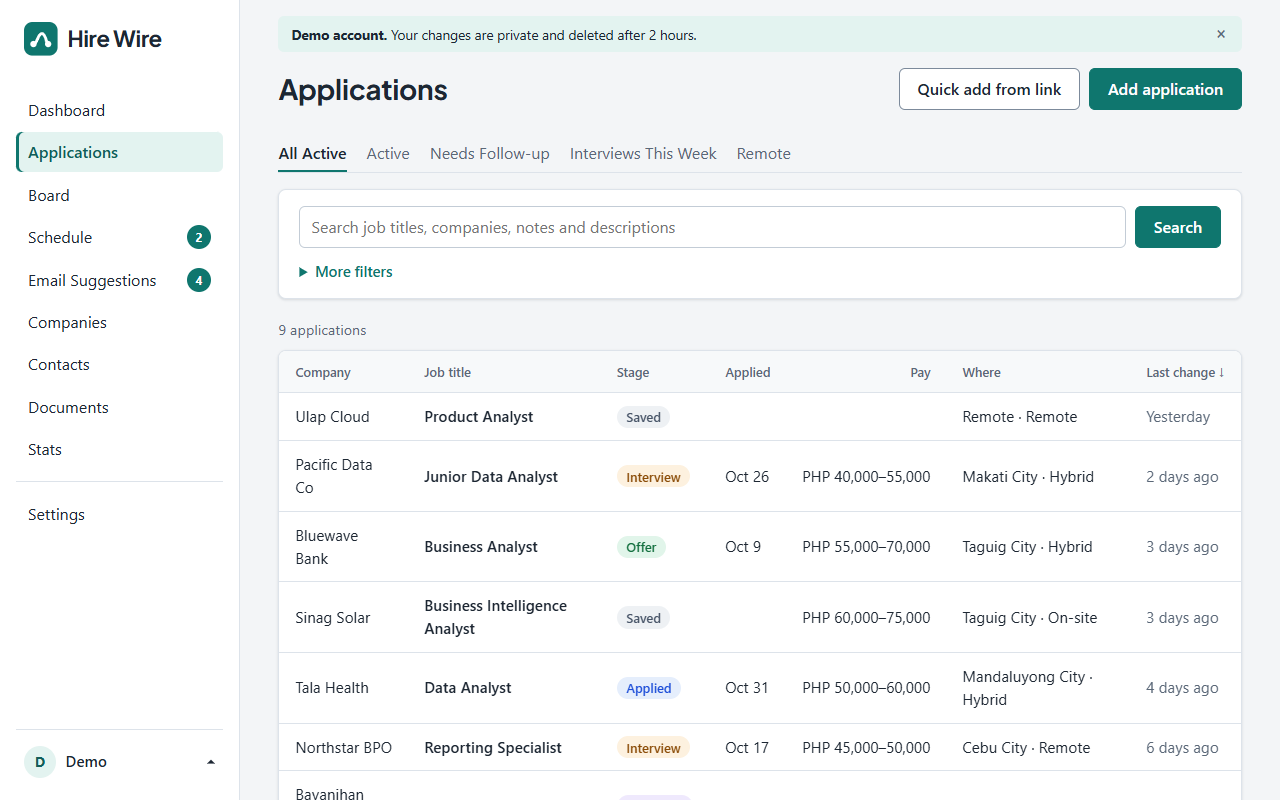
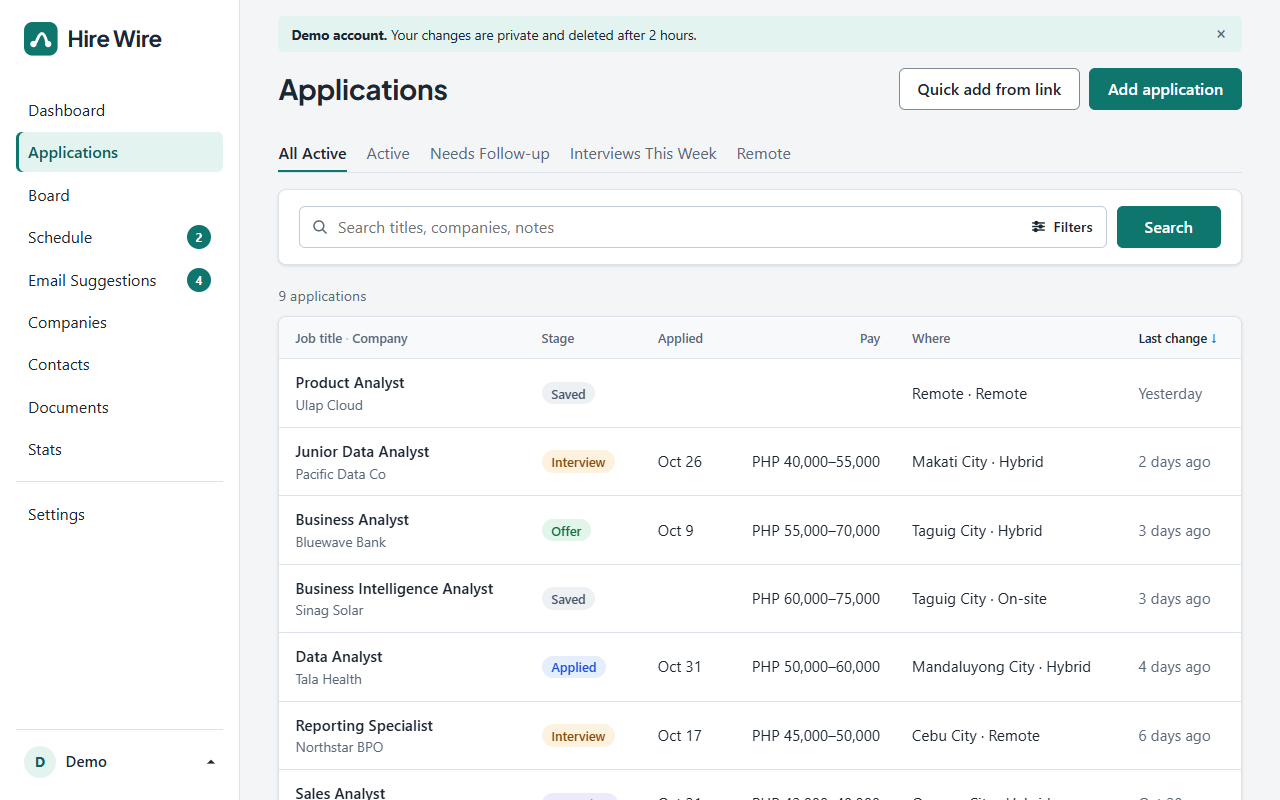
Applications page: sticky job column, clearer rows, compact filters
From a design review the user pasted, measured first:
- Job title and company share the first column (company in small text
  under the title), and it stays on the left when the table scrolls
  sideways. It scrolled at 1024px (796px of table in 721px); at 1280px
  and wider it fits.
- Row hover is a clear tint (--row-hover; it was 1.06:1 against the
  card, now 1.15:1 light and 1.33:1 dark) with a teal edge, and a click
  anywhere on a row opens it (the title is still the real link).
- The search box has a search icon and a Filters button inside it, with
  a count of the filters in use. The panel stays closed until opened
  (the chips show what is on), and remembers being open while ticking
  boxes. The filter card went from 535-574px tall to 76px.
- Empty fields are left out of the address (?stage=interview, not
  ?q=&stage=interview&source=...).
- Stage pills already passed contrast (lowest 5.4:1 light, 5.1:1 dark).
- Phone cards keep the title and stage on the first line.
- All README pictures retaken; the filters picture opens the panel.

diff --git a/hirewire/static/style.css b/hirewire/static/style.css
@@ -10,6 +10,7 @@
   --bg: #f3f5f7;
   --surface: #ffffff;
   --surface-soft: #f7f9fa;
+  --row-hover: #e8f1f0;  /* a table row under the pointer */
   --ink: #1d2733;
   --ink-soft: #5b6878;
   --rule: #dde3ea;
@@ -53,6 +54,7 @@
     --bg: #11161c;
     --surface: #19212a;
     --surface-soft: #1d2631;
+    --row-hover: #273745;
     --ink: #e6ebf0;
     --ink-soft: #9aa8b7;
     --rule: #2b3644;
@@ -88,6 +90,7 @@
   --bg: #11161c;
   --surface: #19212a;
   --surface-soft: #1d2631;
+  --row-hover: #273745;
   --ink: #e6ebf0;
   --ink-soft: #9aa8b7;
   --rule: #2b3644;
@@ -387,14 +390,22 @@ img { max-width: 100%; height: auto; display: block; }
 .table td { padding: .75rem 1rem; border-bottom: 1px solid var(--rule); vertical-align: middle; }
 .table tbody tr:last-child td { border-bottom: 0; }
 .table tbody tr { position: relative; }
-.table tbody tr:hover { background: var(--surface-soft); }
+.table tbody tr:hover td { background: var(--row-hover); }
+.table tbody tr[data-href] { cursor: pointer; }  /* app.js opens the row's page on a click anywhere */
+.table tbody tr[data-href]:hover .col-job { box-shadow: inset 3px 0 0 var(--accent), 1px 0 0 var(--rule); }
 .table th a { color: inherit; text-decoration: none; }
 .table th a:hover { color: var(--accent); }
+.table th a[aria-current] { color: var(--ink); }
+.th-sep { color: var(--rule-strong); }
+/* The job column stays on the left when a narrow screen scrolls the table sideways. */
+.table .col-job { position: sticky; left: 0; z-index: 1; min-width: 13rem; background: var(--surface); box-shadow: 1px 0 0 var(--rule); }
+.table thead .col-job { background: var(--surface-soft); z-index: 2; }
+.job-company { display: block; color: var(--ink-soft); font-size: .86rem; }
 .table .num { text-align: right; white-space: nowrap; }
 .row-link { color: var(--ink); font-weight: 600; text-decoration: none; }
 .row-link:hover { color: var(--accent); text-decoration: underline; }
 /* The title's link covers the whole row or card, so anywhere opens it. */
-.table .row-link::after, .company-card .row-link::after { content: ""; position: absolute; inset: 0; }
+.company-card .row-link::after { content: ""; position: absolute; inset: 0; }
 .row-list { list-style: none; margin: 0; padding: 0; }
 .row-list li { display: flex; flex-wrap: wrap; justify-content: space-between; align-items: center; gap: .3rem 1rem; padding: .65rem 0; border-bottom: 1px solid var(--rule); }
 .row-list li:first-child { padding-top: 0; }
@@ -496,11 +507,24 @@ img { max-width: 100%; height: auto; display: block; }
 .view-delete { width: 1.5rem; height: 1.5rem; padding: 0; background: none; border: 0; border-radius: 50%; color: var(--ink-soft); font-size: 1.1rem; line-height: 1; cursor: pointer; }
 .view-delete:hover { background: var(--danger-soft); color: var(--danger); }
 .filter-card { padding: 1rem 1.25rem; }
+/* One row: [search icon | words ......... Filters (2)] [Search]. The Filters button is the
+   panel's <summary>, placed inside the search box so the card stays one line tall. */
+.filter-card { position: relative; --search-button: 6.5rem; }
 .filter-row { display: flex; gap: .6rem; }
-.filter-row .control { flex: 1; min-width: 0; }
-.filter-more { margin-top: .75rem; }
-.filter-more summary { width: max-content; cursor: pointer; color: var(--accent); font-size: .92rem; font-weight: 600; }
-.filter-more[open] summary { margin-bottom: 1rem; }
+.filter-row > .button { flex: none; width: var(--search-button); }
+.search-box { position: relative; flex: 1; min-width: 0; }
+.search-box .control { width: 100%; padding-left: 2.35rem; padding-right: 7.5rem; }
+.search-icon { position: absolute; left: .75rem; top: 50%; transform: translateY(-50%); color: var(--ink-soft); pointer-events: none; }
+.filter-toggle { position: absolute; top: calc(1rem + .3rem); right: calc(1.25rem + var(--search-button) + .6rem + .3rem); height: calc(var(--control-height) - .6rem);
+  display: inline-flex; align-items: center; gap: .4rem; padding: 0 .6rem; border-radius: var(--radius-small); color: var(--ink); font-size: .9rem; font-weight: 600; list-style: none; cursor: pointer; }
+.filter-toggle::-webkit-details-marker { display: none; }
+.filter-toggle:hover, .filter-more[open] .filter-toggle { background: var(--accent-soft); color: var(--accent-strong); }
+.filter-toggle .badge { min-width: 1.3rem; line-height: 1.3rem; font-size: .72rem; }
+.filter-more[open] > .filter-grid { margin-top: 1rem; padding-top: 1rem; border-top: 1px solid var(--rule); }
+@container main (max-width: 36rem) {
+  .filter-toggle-word { display: none; }
+  .search-box .control { padding-right: 4.5rem; }
+}
 .filter-grid { display: grid; grid-template-columns: repeat(auto-fill, minmax(min(100%, 11rem), 1fr)); gap: 1rem 1.25rem; margin-bottom: 1rem; }
 .filter-grid .span-all { grid-column: 1 / -1; }
 .filter-group { margin: 0; padding: 0; border: 0; min-width: 0; display: grid; gap: .5rem; }
@@ -533,6 +557,9 @@ img { max-width: 100%; height: auto; display: block; }
   .table.as-cards td { padding: 0; border: 0; }
   .table.as-cards td:empty { display: none; }
   .table.as-cards .col-company { order: 1; flex: 1 1 0; color: var(--ink-soft); font-size: .85rem; }
+  /* The title takes the first line beside the stage, so the details wrap below instead of squeezing it. */
+  .table.as-cards .col-job { order: 1; flex: 1 1 calc(100% - 7.5rem); position: static; min-width: 0; background: none; box-shadow: none; }
+  .table.as-cards tbody tr[data-href]:hover .col-job { box-shadow: none; }
   .table.as-cards .col-stage { order: 2; }
   .table.as-cards .col-title { order: 3; flex-basis: 100%; }
   .table.as-cards .col-meta { order: 4; color: var(--ink-soft); font-size: .85rem; text-align: left; }

diff --git a/hirewire/templates/applications/list.html b/hirewire/templates/applications/list.html
@@ -29,16 +29,24 @@
 
   <form class="card filter-card" method="get" action="{{ url_for('applications.index') }}" data-filters>
     <div class="filter-row">
-      <label class="visually-hidden" for="filter-q">Search</label>
-      <input id="filter-q" class="control" type="search" name="q" value="{{ f.q }}" maxlength="100"
-             placeholder="Search job titles, companies, notes and descriptions">
+      <div class="search-box">
+        <svg class="search-icon" viewBox="0 0 24 24" width="18" height="18" fill="none" stroke="currentColor" stroke-width="2" stroke-linecap="round" aria-hidden="true"><circle cx="10.5" cy="10.5" r="6.5"></circle><line x1="15.5" y1="15.5" x2="20" y2="20"></line></svg>
+        <label class="visually-hidden" for="filter-q">Search</label>
+        <input id="filter-q" class="control" type="search" name="q" value="{{ f.q }}" maxlength="100"
+               placeholder="Search titles, companies, notes">
+      </div>
       {% if f.sort != 'updated' or f.order != 'desc' %}
         <input type="hidden" name="sort" value="{{ f.sort }}"><input type="hidden" name="order" value="{{ f.order }}">
       {% endif %}
       <button class="button" type="submit">Search</button>
     </div>
-    <details class="filter-more"{% if panel_count %} open{% endif %}>
-      <summary>More filters{% if panel_count %} ({{ panel_count }}){% endif %}</summary>
+    {# Closed until opened: the chips under the card already show which filters are on.
+       Its summary sits inside the search box (style.css); app.js remembers if it was open. #}
+    <details class="filter-more" data-filter-panel>
+      <summary class="filter-toggle">
+        <svg viewBox="0 0 24 24" width="17" height="17" fill="none" stroke="currentColor" stroke-width="2" stroke-linecap="round" aria-hidden="true"><line x1="4" y1="7" x2="20" y2="7"></line><line x1="4" y1="12" x2="20" y2="12"></line><line x1="4" y1="17" x2="20" y2="17"></line><circle cx="9" cy="7" r="2" fill="currentColor"></circle><circle cx="15" cy="12" r="2" fill="currentColor"></circle><circle cx="8" cy="17" r="2" fill="currentColor"></circle></svg>
+        <span class="filter-toggle-word">Filters</span>{% if panel_count %}<span class="badge">{{ panel_count }}<span class="visually-hidden"> in use</span></span>{% endif %}
+      </summary>
       <div class="filter-grid">
         <fieldset class="filter-group span-all">
           <legend>Stage</legend>
@@ -124,21 +132,25 @@
       <div class="table-scroll">
         <table class="table as-cards">
           <thead>
+            {% macro sort_header(column) -%}
+              {%- set current = f.sort == column -%}
+              <a href="{{ url_for('applications.index', **sort_link(f, column)) }}"{% if current %} aria-current="true"{% endif %}>{{ sorts[column] }}{% if current %} <span aria-hidden="true">{{ '↑' if f.order == 'asc' else '↓' }}</span><span class="visually-hidden"> ({{ 'ascending' if f.order == 'asc' else 'descending' }})</span>{% endif %}</a>
+            {%- endmacro %}
             <tr>
-              {% for column, label in sorts.items() %}
-                {% set current = f.sort == column %}
-                <th{% if column == 'pay' %} class="num"{% endif %}{% if current %} aria-sort="{{ 'ascending' if f.order == 'asc' else 'descending' }}"{% endif %}>
-                  <a href="{{ url_for('applications.index', **sort_link(f, column)) }}">{{ label }}{% if current %} <span aria-hidden="true">{{ '↑' if f.order == 'asc' else '↓' }}</span>{% endif %}</a>
-                </th>
-                {% if column == 'pay' %}<th>Where</th>{% endif %}
-              {% endfor %}
+              {# Job title and company share the first column, which stays put when the table scrolls sideways. #}
+              <th class="col-job">{{ sort_header('role') }} <span class="th-sep" aria-hidden="true">·</span> {{ sort_header('company') }}</th>
+              <th>{{ sort_header('stage') }}</th>
+              <th>{{ sort_header('applied') }}</th>
+              <th class="num">{{ sort_header('pay') }}</th>
+              <th>Where</th>
+              <th>{{ sort_header('updated') }}</th>
             </tr>
           </thead>
           <tbody>
             {% for job in jobs %}
-              <tr>
-                <td class="col-company">{{ job.company.name }}</td>
-                <td class="col-title"><a class="row-link" href="{{ url_for('applications.detail', job_id=job.id) }}">{{ job.role_title }}</a></td>
+              {% set address = url_for('applications.detail', job_id=job.id) %}
+              <tr data-href="{{ address }}">
+                <td class="col-job"><a class="row-link" href="{{ address }}">{{ job.role_title }}</a><span class="job-company">{{ job.company.name }}</span></td>
                 <td class="col-stage">{{ stage_pill(job.stage) }}</td>
                 <td class="col-meta">{% if job.applied_on %}<span class="phone-only">Applied </span>{{ job.applied_on|short_day }}{% endif %}</td>
                 <td class="col-meta num">{{ job.salary_min|salary_range(job.salary_max, job.currency) }}</td>

diff --git a/hirewire/static/app.js b/hirewire/static/app.js
@@ -88,6 +88,42 @@ function setUpFilters() {
   form.addEventListener("change", (event) => {
     if (event.target.matches("input[type=checkbox], select")) form.requestSubmit();
   });
+  // Empty fields stay out of the address, so a bookmarked filter is short: ?stage=interview,
+  // not ?q=&stage=interview&source=&location=... (a disabled field isn't sent).
+  form.addEventListener("submit", () => {
+    form.querySelectorAll("input[name], select[name]").forEach((field) => {
+      if (field.type !== "checkbox" && field.value === "") field.disabled = true;
+    });
+  });
+}
+
+// A click anywhere on a row opens its page (the title is the real link, for keyboards).
+function setUpRowLinks() {
+  document.querySelectorAll("tr[data-href]").forEach((row) => {
+    row.addEventListener("click", (event) => {
+      if (event.target.closest("a, button, input, select, label")) return;
+      if (String(getSelection())) return;  // selecting text to copy isn't a click to open
+      location.href = row.dataset.href;
+    });
+  });
+}
+
+// The filter panel stays open while you tick boxes (each tick reloads the page).
+function setUpFilterPanel() {
+  const panel = document.querySelector("[data-filter-panel]");
+  if (!panel) return;
+  try {
+    if (sessionStorage.getItem("hirewire-filters-open") === "yes") panel.open = true;
+  } catch (error) {
+    // Storage can be blocked. The panel just starts closed.
+  }
+  panel.addEventListener("toggle", () => {
+    try {
+      sessionStorage.setItem("hirewire-filters-open", panel.open ? "yes" : "no");
+    } catch (error) {
+      // Nothing to remember it in.
+    }
+  });
 }
 
 // ---------- The Board ----------
@@ -210,4 +246,6 @@ setUpUserMenu();
 setUpConfirm();
 setUpCopy();
 setUpFilters();
+setUpFilterPanel();
+setUpRowLinks();
 setUpBoard();

diff --git a/tests/test_filters.py b/tests/test_filters.py
@@ -143,6 +143,21 @@ def test_paging(app, me, user_id):
     assert titles(me, "?sort=company&order=asc&page=99") == ["Job 25", "Job 26", "Job 27"]  # the last page
 
 
+def test_rows_open_their_page_and_show_the_company_under_the_title(app, me, jobs):
+    page = me.get("/applications/").get_data(as_text=True)
+    row = re.search(r'<tr data-href="(/applications/\d+)">\s*<td class="col-job"><a class="row-link" href="([^"]+)">'
+                    r'Data Analyst</a><span class="job-company">Acme</span>', page)
+    assert row and row.group(1) == row.group(2)
+
+
+def test_the_filter_panel_stays_closed_and_counts_the_filters(me, jobs):
+    page = me.get("/applications/?stage=applied&mode=hybrid").get_data(as_text=True)
+    assert '<details class="filter-more" data-filter-panel>' in page  # closed: the chips show what's on
+    assert '<span class="badge">2<span class="visually-hidden"> in use</span>' in page
+    # One header holds both the title and the company sort links.
+    assert "sort=role" in page and "sort=company" in page
+
+
 def test_empty_results_say_why(me, jobs):
     page = me.get("/applications/?q=astronaut").data
     assert b"No Matching Applications" in page and b"Clear all" in page

diff --git a/docs/take_screenshots.py b/docs/take_screenshots.py
@@ -74,9 +74,12 @@ def shoot_visitor_pages(browser):
 
 def shoot_page_parts(page):
     """Things that need a click or a scroll first."""
-    # The filters open, with a few chosen.
-    shoot(page, "filters.png", "/applications/?stage=applied&stage=screening&stage=interview&mode=hybrid"
-                               "&mode=onsite&sort=pay&order=desc")
+    # The filters open (the panel starts closed), with a few chosen.
+    page.goto(f"{BASE}/applications/?stage=applied&stage=screening&stage=interview&mode=hybrid&mode=onsite"
+              "&sort=pay&order=desc")
+    page.locator(".filter-toggle").click()
+    save(page, "filters.png")
+    page.locator(".filter-toggle").click()  # closed again, for the pictures after this one
     # The application page, further down: the follow-ups, people and the timeline.
     page.goto(f"{BASE}{job_address(page)}")
     page.locator("#timeline").scroll_into_view_if_needed()

diff --git a/AGENTS.md b/AGENTS.md
@@ -39,6 +39,7 @@ Python 3.13 is at `%LOCALAPPDATA%\Programs\Python\Python313\python.exe`. Use the
 - **Look:** Plus Jakarta Sans (600 and 700, in `static/fonts/`, see its README) for headings, the name and stat numbers (`--headline`); everything else is Segoe UI. The logo (`mark()` in `_macros.html`) is always a solid tile; its wire colour comes from `--mark-wire` (button-text colour in the sidebar, `--panel` on the login panel). The login panel uses `--panel` (deep teal), never `--accent`, so white text stays readable in dark mode. `tests/test_look.py` guards this.
 - Solid buttons hover to `--accent-hover` (clearly darker in light mode, lighter in dark) with a soft `--accent-ring`; the menu's current page also has a teal edge, so it isn't shown by colour alone. The demo's note is one thin line that `setUpDemoNote()` in `app.js` lets people close for the browser session.
 - Outlined (quiet) buttons use `--control-border`, at least 3:1 against the card, so they never look switched off. Links to other sites use `outside_link()` in `_macros.html` (new tab, `noopener`, a small arrow and "opens in a new tab" for screen readers).
+- The Applications table: job title and company share the first column (`.col-job`), which is `position: sticky` so it stays put when a narrow screen scrolls sideways. A sticky cell traps the old whole-row `::after` link, so rows have `data-href` and `setUpRowLinks()` opens them on a click (the title stays the real link). The filter panel is a closed `<details>` whose summary sits inside the search box; `setUpFilterPanel()` remembers it open while boxes are ticked, and empty fields are left out of the address.
 - Stage pills always show the stage's name (never colour alone). Dark mode is defined twice in `style.css` (device setting + Settings choice): change both blocks together.
 - **Every PR must keep the README's pictures up to date (the owner's standing rule).** Screenshots live in `docs/screenshots/` and every one is shown in the README. If a PR visibly changes a page, retake its pictures; if it adds a page or feature, add a picture to `docs/take_screenshots.py` and the README. `tests/test_readme.py` fails if they disagree. In a PR description, link pictures with a full `raw.githubusercontent.com` address.
 - Commit messages and PR bodies go through files (`git commit -F`, `gh pr create --body-file`): PowerShell 5.1 breaks quotes in arguments.
